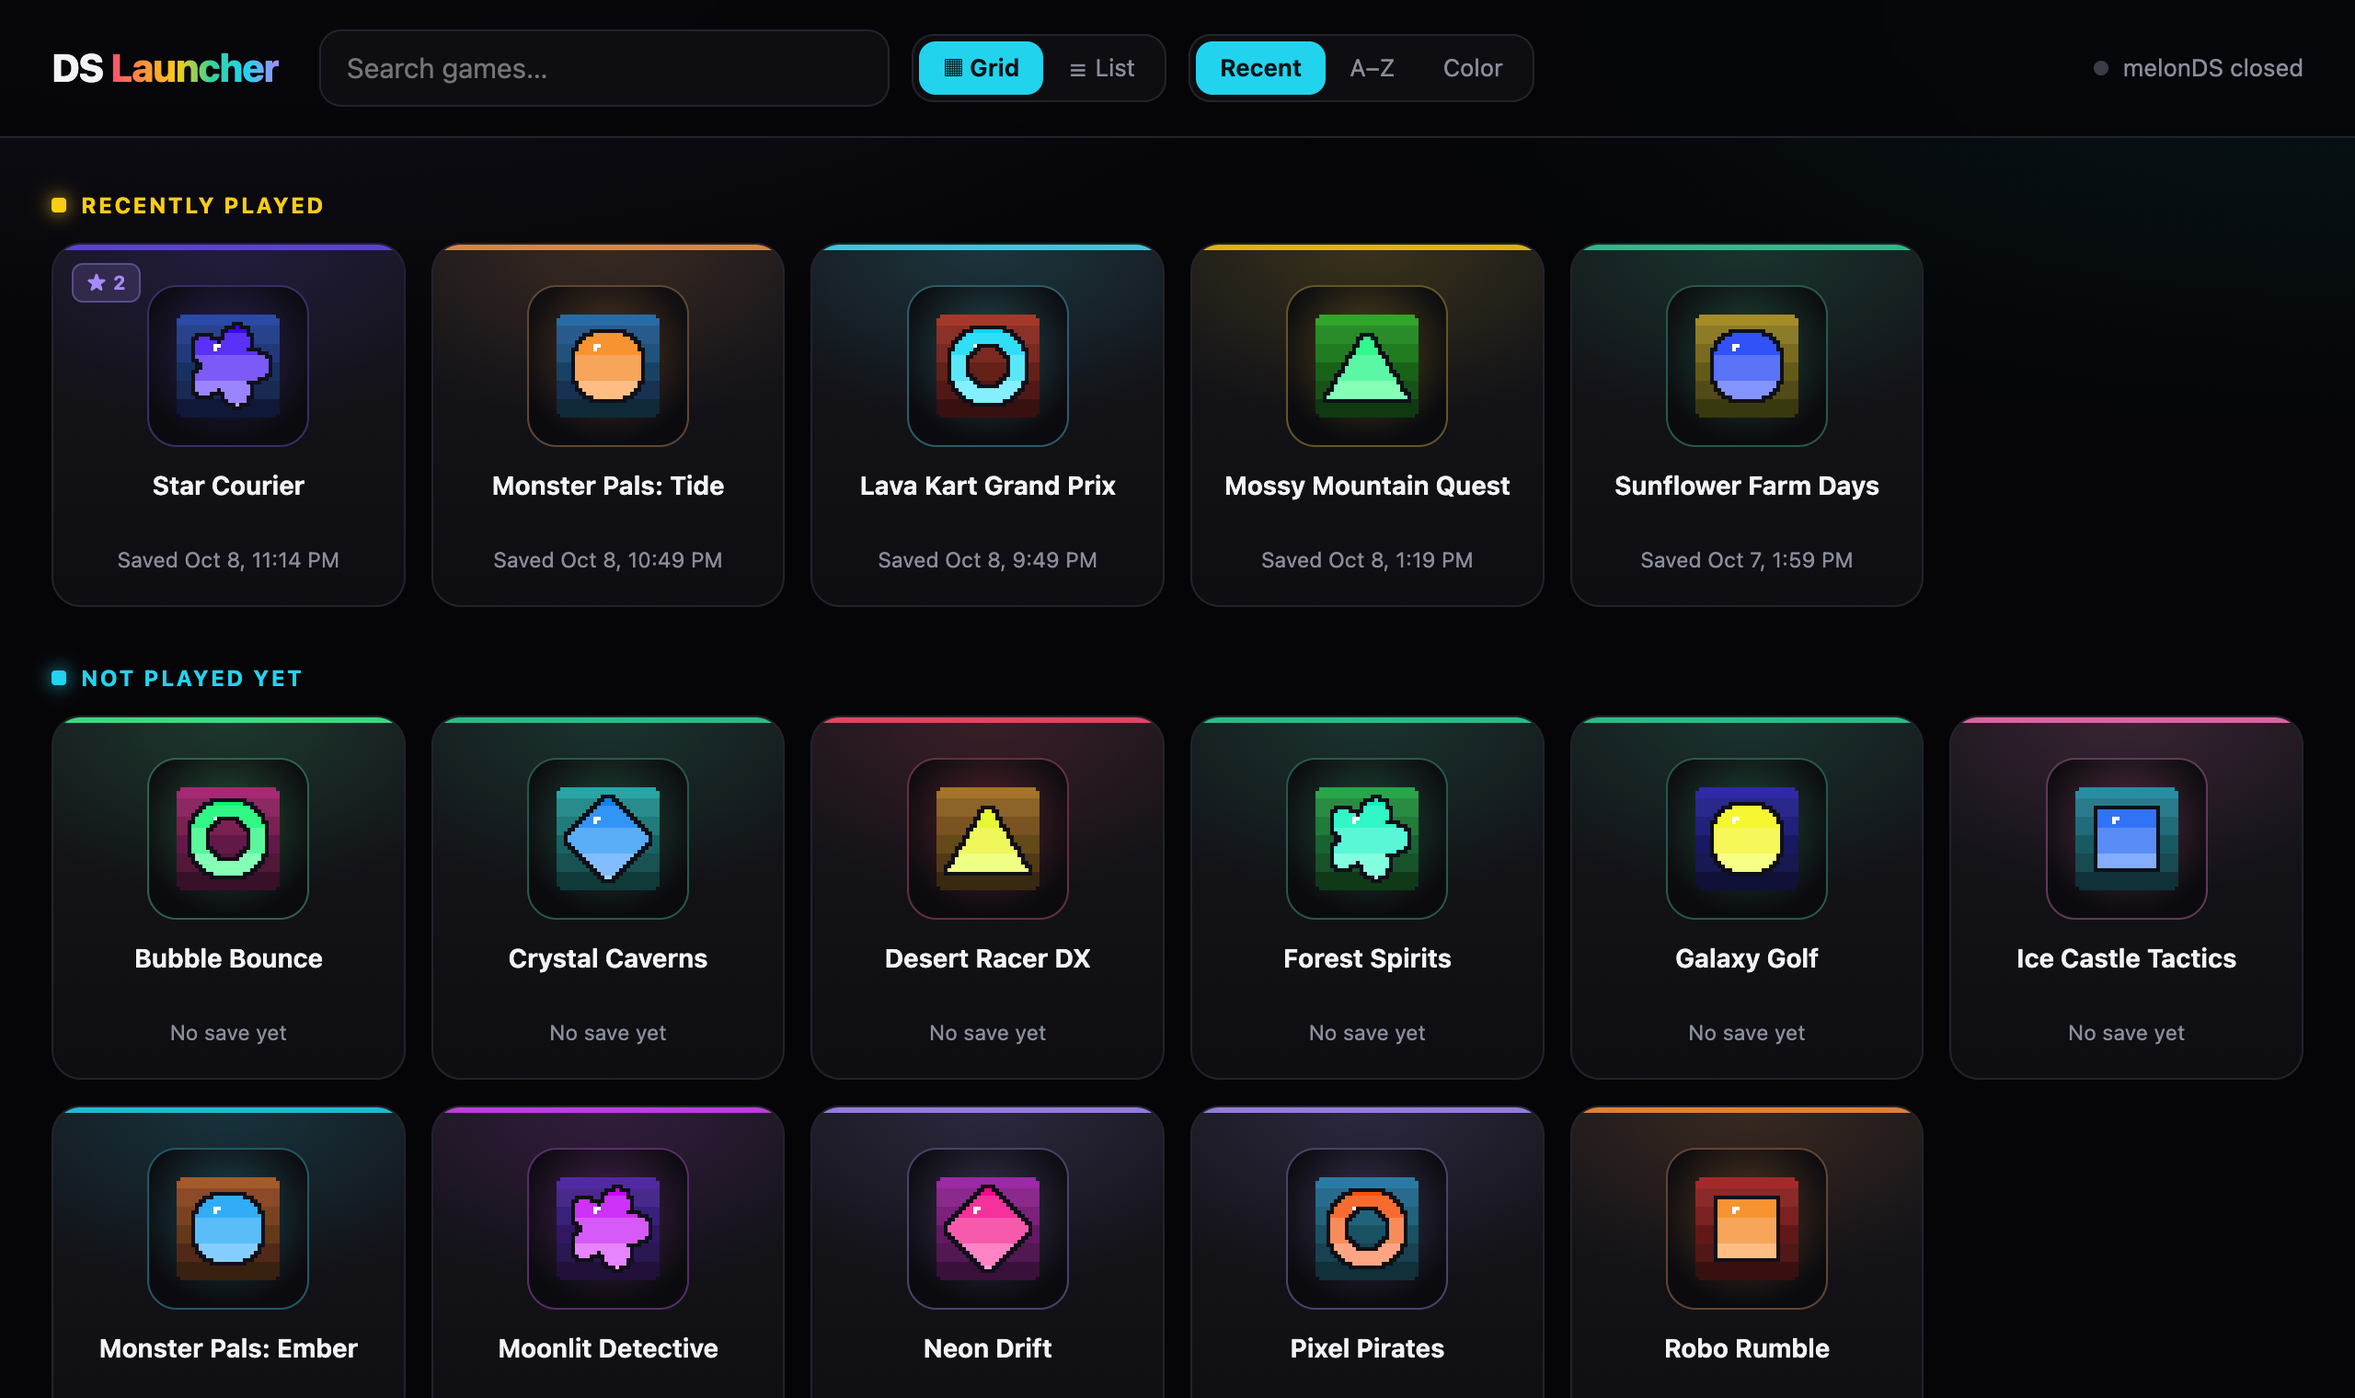
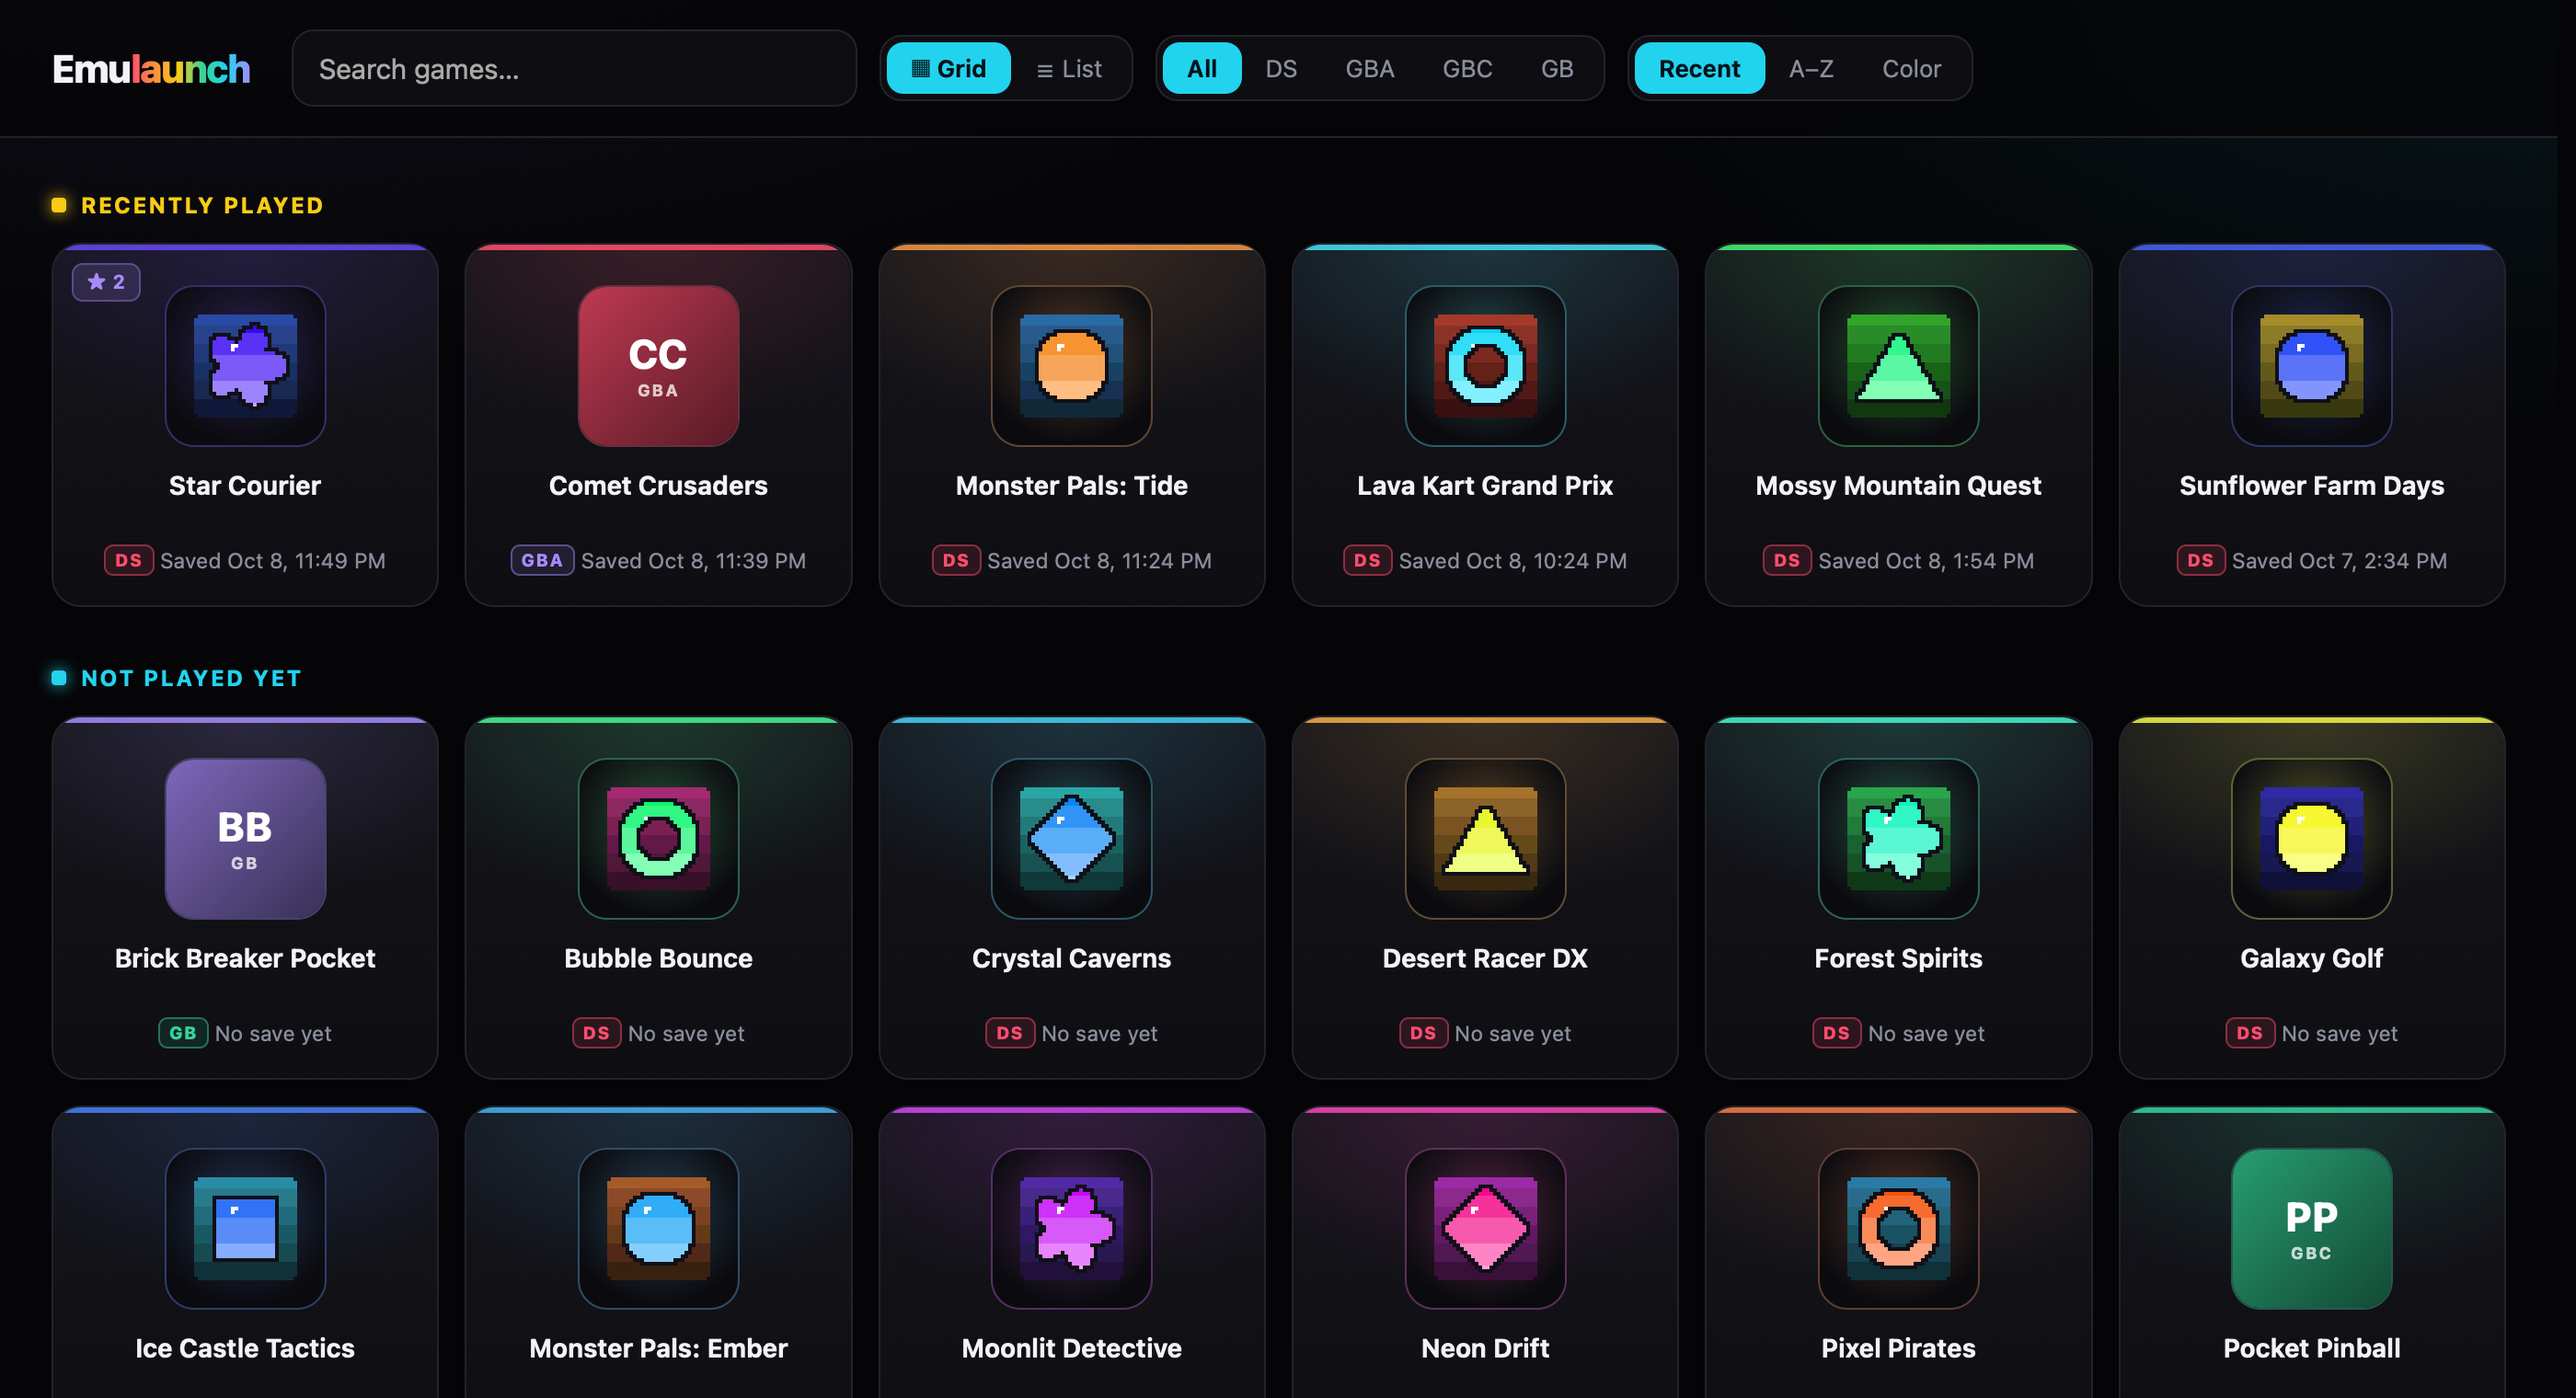
Retake README screenshots with a WebKit snapshot tool
docs/snap.swift renders pages with the same engine as the app; demo mode
(DS_DEMO) ignores real running emulators and #static stops polling.

diff --git a/docs/snap.swift b/docs/snap.swift
@@ -1,0 +1,43 @@
+// Screenshot a page with WebKit (same engine as the app), for README images.
+// usage: snap <url> <out.png> <width> <height> [wait-seconds]
+import Cocoa
+import WebKit
+
+let args = CommandLine.arguments
+guard args.count >= 5, let url = URL(string: args[1]), let w = Double(args[3]), let h = Double(args[4]) else {
+    print("usage: snap <url> <out.png> <width> <height> [wait-seconds]"); exit(2)
+}
+let out = args[2]
+let wait = args.count > 5 ? Double(args[5]) ?? 4 : 4
+
+class Snapper: NSObject, WKNavigationDelegate {
+    let web: WKWebView
+    let window: NSWindow
+    init(_ size: NSSize) {
+        web = WKWebView(frame: NSRect(origin: .zero, size: size), configuration: WKWebViewConfiguration())
+        window = NSWindow(contentRect: NSRect(origin: .zero, size: size), styleMask: [.borderless], backing: .buffered, defer: false)
+        super.init()
+        window.contentView = web
+        window.setFrameOrigin(NSPoint(x: -10000, y: -10000))  // offscreen
+        window.orderFront(nil)
+        web.navigationDelegate = self
+    }
+    func webView(_ webView: WKWebView, didFinish navigation: WKNavigation!) {
+        DispatchQueue.main.asyncAfter(deadline: .now() + wait) {
+            let cfg = WKSnapshotConfiguration()
+            webView.takeSnapshot(with: cfg) { image, _ in
+                guard let image = image, let tiff = image.tiffRepresentation,
+                      let rep = NSBitmapImageRep(data: tiff), let png = rep.representation(using: .png, properties: [:]) else { exit(1) }
+                try! png.write(to: URL(fileURLWithPath: out))
+                exit(0)
+            }
+        }
+    }
+}
+
+let app = NSApplication.shared
+app.setActivationPolicy(.accessory)
+let snapper = Snapper(NSSize(width: w, height: h))
+snapper.web.load(URLRequest(url: url))
+DispatchQueue.main.asyncAfter(deadline: .now() + wait + 20) { exit(3) }
+app.run()

diff --git a/launcher/index.html b/launcher/index.html
@@ -338,6 +338,7 @@ const sectionLabel = label => label ? `<div class="section ${label === "Recently
 const isPlaying = g => state.running && state.running.id === g.id;
 
 function renderGrid() {
+  document.querySelectorAll("#view button").forEach(b => b.classList.toggle("on", b.dataset.v === viewMode));
   const groups = sortedGroups();
   ordered = groups.flatMap(([, l]) => l);
   if (splitView()) return renderList(groups);
@@ -573,7 +574,8 @@ addEventListener("resize", () => {
   if (keep) openGame(keep);
 });
 // check in every 4s while visible, every 30s while hidden/minimized (keeps the server alive, saves work)
-(function tick() { refresh(); setTimeout(tick, document.hidden ? 30000 : 4000); })();
+// "#...&static" (used for README screenshots) loads once and stops polling so headless Chrome can finish
+(function tick() { refresh(); if (!new URLSearchParams(location.hash.slice(1)).has("static")) setTimeout(tick, document.hidden ? 30000 : 4000); })();
 document.addEventListener("visibilitychange", () => { if (!document.hidden) refresh(); });
 // tell the launcher the tab closed so it can shut down
 window.addEventListener("pagehide", () => navigator.sendBeacon("/api/bye", "{}"));

diff --git a/docs/make_demo.py b/docs/make_demo.py
@@ -165,6 +165,18 @@ for i, (title, hue, shape, folder, ago) in enumerate(GAMES):
             open(p, "wb").write(b"\0" * 16)
             t = now - ago * 60 - (0 if ext == ".sav" else 300)
             os.utime(p, (t, t))
+# a few Game Boy titles (no box art, so they show the initials tile + system badge)
+for title, folder, ext, ago in [("Comet Crusaders", "GBA", ".gba", 15), ("Tiny Tank Tactics", "GBA", ".gba", None),
+                                ("Pocket Pinball", "GBC", ".gbc", None), ("Brick Breaker Pocket", "GB", ".gb", None)]:
+    d = os.path.join(OUT, folder)
+    os.makedirs(d, exist_ok=True)
+    base = os.path.join(d, title)
+    open(base + ext, "wb").write(bytes(0x8000))
+    if ago is not None:
+        open(base + ".sav", "wb").write(b"\0" * 16)
+        t = now - ago * 60
+        os.utime(base + ".sav", (t, t))
+
 with open(os.path.join(OUT, "melonDS-demo.toml"), "w") as f:  # so the demo shows cheats switched on
     f.write("[Instance0]\nEnableCheats = true\n")
 print(f"demo library with {len(GAMES)} games in {OUT}")

diff --git a/launcher/launcher.py b/launcher/launcher.py
@@ -283,6 +283,12 @@ def _proc_args(pid):
 
 
 def running_game():
+    if os.environ.get("DS_DEMO"):  # README screenshots: ignore real emulators
+        return None
+    return _running_game()
+
+
+def _running_game():
     """Return (pid, rom path or '') if melonDS or mGBA is running, else None."""
     global _melon_pid
     try:
